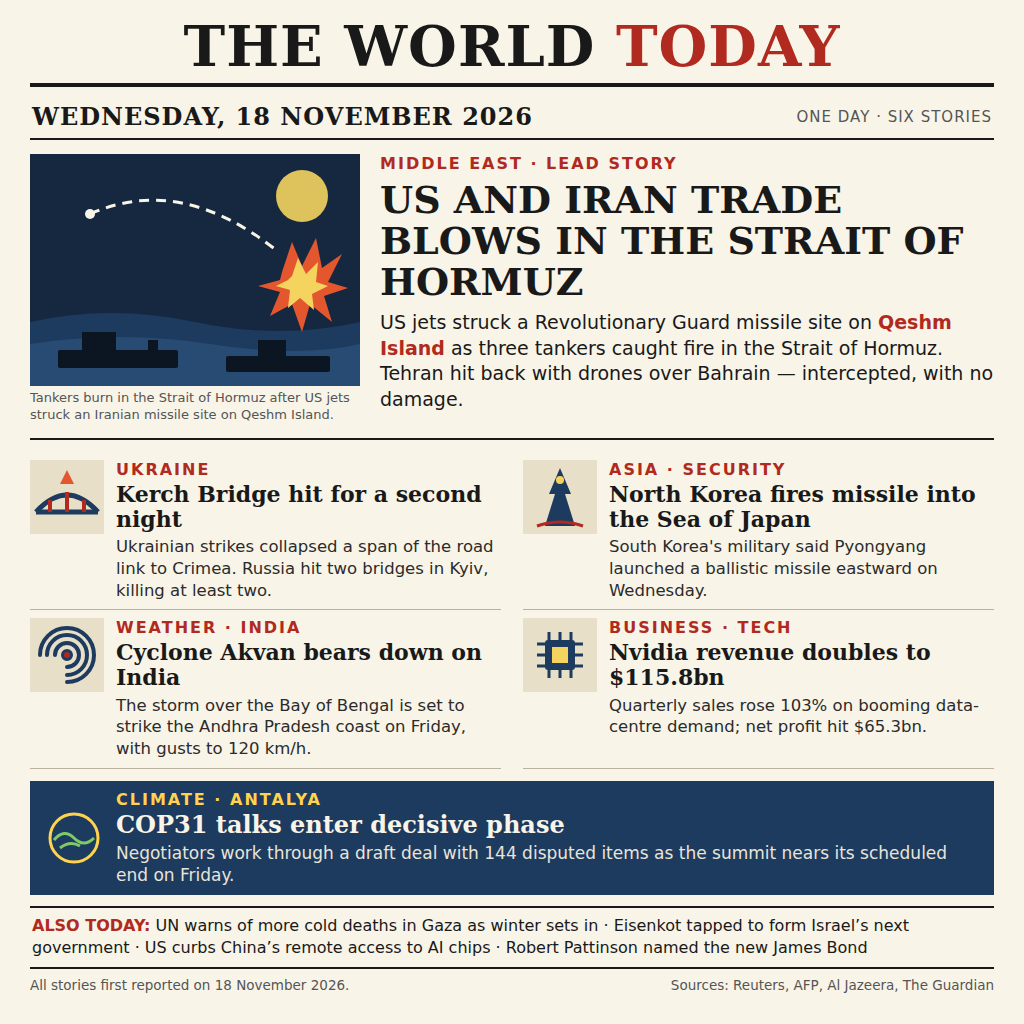
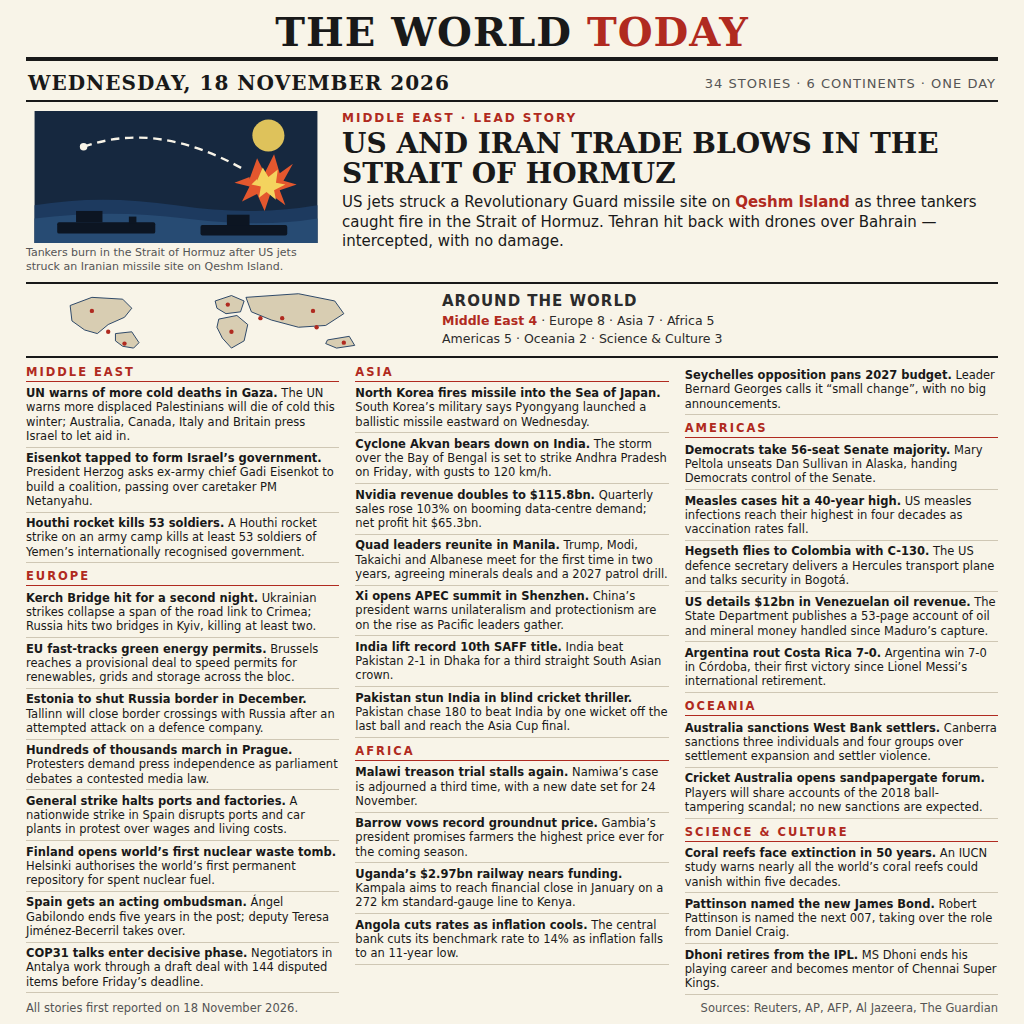
The World Today — 18 November 2026 (news-image-20261118 round 2)

diff --git a/image-source.html b/image-source.html
@@ -10,64 +10,67 @@
     font-family: "DejaVu Sans", "Noto Sans", sans-serif;
     background: #f8f4e8;
     color: #191919;
-    padding: 18px 30px 14px 30px;
+    padding: 12px 26px 8px 26px;
   }
   .serif { font-family: "DejaVu Serif", "Noto Serif", serif; }
 
   /* Masthead */
-  .masthead { text-align: center; border-bottom: 4px solid #191919; padding-bottom: 8px; }
-  .masthead h1 { font-size: 56px; line-height: 1.02; letter-spacing: 1px; font-weight: bold; }
+  .masthead { text-align: center; border-bottom: 4px solid #191919; padding-bottom: 5px; }
+  .masthead h1 { font-size: 40px; line-height: 1; letter-spacing: 1px; font-weight: bold; }
   .masthead h1 .red { color: #b02a20; }
   .dateline {
     display: flex; justify-content: space-between; align-items: center;
-    border-bottom: 2px solid #191919; padding: 7px 2px; margin-top: 8px;
+    border-bottom: 2px solid #191919; padding: 5px 2px; margin-top: 5px;
   }
-  .dateline .date { font-size: 24px; font-weight: bold; letter-spacing: 1px; white-space: nowrap; }
-  .dateline .tag { font-size: 15px; color: #555; letter-spacing: 1px; white-space: nowrap; }
+  .dateline .date { font-size: 20px; font-weight: bold; letter-spacing: 1px; white-space: nowrap; }
+  .dateline .tag { font-size: 13px; color: #555; letter-spacing: 1px; white-space: nowrap; }
 
   /* Lead story */
   .lead {
-    display: flex; gap: 20px; margin-top: 14px;
-    border-bottom: 2px solid #191919; padding-bottom: 14px;
+    display: flex; gap: 16px; margin-top: 9px;
+    border-bottom: 2px solid #191919; padding-bottom: 8px;
   }
-  .lead .art { flex: 0 0 330px; }
-  .lead .art svg { display: block; width: 330px; height: 232px; }
-  .lead .art .cap { font-size: 13px; color: #555; margin-top: 4px; line-height: 1.3; }
+  .lead .art { flex: 0 0 300px; }
+  .lead .art svg { display: block; width: 300px; height: 132px; }
+  .lead .art .cap { font-size: 11px; color: #555; margin-top: 3px; line-height: 1.25; }
   .kicker {
-    font-size: 16px; font-weight: bold; letter-spacing: 2px; color: #b02a20;
+    font-size: 12px; font-weight: bold; letter-spacing: 2px; color: #b02a20;
     text-transform: uppercase;
   }
-  .lead h2 { font-size: 38px; line-height: 1.08; margin: 6px 0 8px 0; font-weight: bold; }
-  .lead p { font-size: 19px; line-height: 1.35; }
+  .lead h2 { font-size: 28px; line-height: 1.06; margin: 4px 0 5px 0; font-weight: bold; }
+  .lead p { font-size: 15px; line-height: 1.3; }
   .lead p b { color: #b02a20; }
 
-  /* Story grid */
-  .grid { display: grid; grid-template-columns: 1fr 1fr; gap: 0 22px; margin-top: 12px; }
-  .card { display: flex; gap: 12px; padding: 8px 0; border-bottom: 1px solid #b9b2a0; }
-  .card .icon { flex: 0 0 74px; }
-  .card .icon svg { display: block; width: 74px; height: 74px; }
-  .card h3 { font-size: 22px; line-height: 1.12; font-weight: bold; margin: 3px 0 5px 0; }
-  .card p { font-size: 16.5px; line-height: 1.32; color: #2b2b2b; }
-
-  /* COP31 strip */
-  .climate {
-    display: flex; gap: 14px; align-items: center;
-    background: #1d3a5f; color: #f8f4e8; margin-top: 12px; padding: 9px 16px;
+  /* Map strip */
+  .mapstrip {
+    display: flex; gap: 16px; align-items: center;
+    margin-top: 7px; border-bottom: 2px solid #191919; padding-bottom: 7px;
   }
-  .climate svg { flex: 0 0 56px; width: 56px; height: 56px; display: block; }
-  .climate .kicker { color: #ffd34d; }
-  .climate h3 { font-size: 24px; line-height: 1.15; font-weight: bold; margin: 2px 0 3px 0; }
-  .climate p { font-size: 17px; line-height: 1.3; color: #e8e4d8; }
+  .mapstrip svg { flex: 0 0 400px; width: 400px; height: 58px; display: block; }
+  .mapstrip .counts { font-size: 12.5px; line-height: 1.45; color: #2b2b2b; }
+  .mapstrip .counts b { color: #b02a20; }
+  .mapstrip .counts .big { font-size: 15px; font-weight: bold; letter-spacing: 1px; }
 
-  /* Ticker + footer */
-  .ticker {
-    margin-top: 11px; font-size: 16px; line-height: 1.4;
-    border-top: 2px solid #191919; border-bottom: 2px solid #191919; padding: 7px 2px;
+  /* Story columns */
+  .cols { columns: 3; column-gap: 16px; margin-top: 7px; }
+  .sec {
+    font-size: 11.5px; font-weight: bold; letter-spacing: 2px; color: #b02a20;
+    text-transform: uppercase; border-bottom: 1px solid #b02a20;
+    padding-bottom: 2px; margin: 6px 0 1px 0;
+    break-after: avoid; break-inside: avoid;
   }
-  .ticker b { color: #b02a20; }
+  .sec:first-child { margin-top: 0; }
+  .it {
+    break-inside: avoid;
+    font-size: 11.5px; line-height: 1.24;
+    padding: 3.5px 0; border-bottom: 1px solid #cfc7b4;
+  }
+  .it b { color: #191919; }
+
+  /* Footer */
   .footer {
-    margin-top: 8px; display: flex; justify-content: space-between;
-    font-size: 13.5px; color: #555;
+    margin-top: 6px; display: flex; justify-content: space-between;
+    font-size: 11.5px; color: #555;
   }
 </style>
 </head>
@@ -78,35 +81,35 @@
 </div>
 <div class="dateline">
   <span class="date serif">WEDNESDAY, 18 NOVEMBER 2026</span>
-  <span class="tag">ONE DAY &middot; SIX STORIES</span>
+  <span class="tag">34 STORIES &middot; 6 CONTINENTS &middot; ONE DAY</span>
 </div>
 
 <div class="lead">
   <div class="art">
-    <svg viewBox="0 0 330 232" xmlns="http://www.w3.org/2000/svg">
-      <rect x="0" y="0" width="330" height="232" fill="#16283f"/>
-      <circle cx="272" cy="42" r="26" fill="#f4d35e" opacity="0.9"/>
-      <path d="M0 168 Q 80 150 165 168 T 330 168 L 330 248 L 0 248 Z" fill="#1d3a5f"/>
-      <path d="M0 190 Q 90 176 180 190 T 330 190 L 330 248 L 0 248 Z" fill="#274b73"/>
+    <svg viewBox="0 0 300 140" xmlns="http://www.w3.org/2000/svg">
+      <rect x="0" y="0" width="300" height="140" fill="#16283f"/>
+      <circle cx="248" cy="26" r="17" fill="#f4d35e" opacity="0.9"/>
+      <path d="M0 100 Q 70 88 150 100 T 300 100 L 300 140 L 0 140 Z" fill="#1d3a5f"/>
+      <path d="M0 114 Q 80 104 160 114 T 300 114 L 300 140 L 0 140 Z" fill="#274b73"/>
       <!-- tanker 1 -->
       <g fill="#0c1522">
-        <rect x="28" y="196" width="120" height="18" rx="2"/>
-        <rect x="52" y="178" width="34" height="18"/>
-        <rect x="118" y="186" width="10" height="10"/>
+        <rect x="24" y="118" width="104" height="12" rx="2"/>
+        <rect x="44" y="106" width="28" height="12"/>
+        <rect x="100" y="112" width="8" height="7"/>
       </g>
       <!-- tanker 2 -->
       <g fill="#0c1522">
-        <rect x="196" y="202" width="104" height="16" rx="2"/>
-        <rect x="228" y="186" width="28" height="16"/>
+        <rect x="176" y="121" width="92" height="11" rx="2"/>
+        <rect x="204" y="110" width="24" height="11"/>
       </g>
       <!-- explosion burst -->
       <g>
-        <path d="M252 118 L262 88 L272 112 L286 84 L292 114 L312 100 L298 128 L318 134 L294 142 L302 168 L280 150 L272 178 L262 150 L240 162 L250 138 L228 132 L250 126 Z" fill="#e4572e"/>
-        <path d="M262 122 L268 104 L276 120 L288 108 L286 128 L298 132 L282 140 L284 156 L270 144 L258 154 L260 136 L246 132 L258 126 Z" fill="#f4d35e"/>
+        <path d="M228 72 L236 50 L244 66 L254 46 L260 66 L274 56 L264 74 L278 78 L260 84 L266 100 L250 88 L244 106 L236 88 L220 96 L228 80 L212 76 L228 70 Z" fill="#e4572e"/>
+        <path d="M236 74 L242 60 L248 70 L258 62 L256 76 L266 78 L254 84 L256 94 L246 86 L238 92 L240 80 L230 78 L236 72 Z" fill="#f4d35e"/>
       </g>
       <!-- missile trail -->
-      <path d="M60 60 Q 150 20 246 96" stroke="#f8f4e8" stroke-width="3" fill="none" stroke-dasharray="10 7"/>
-      <circle cx="60" cy="60" r="5" fill="#f8f4e8"/>
+      <path d="M52 38 Q 130 10 222 62" stroke="#f8f4e8" stroke-width="2.5" fill="none" stroke-dasharray="9 6"/>
+      <circle cx="52" cy="38" r="4" fill="#f8f4e8"/>
     </svg>
     <div class="cap">Tankers burn in the Strait of Hormuz after US jets struck an Iranian missile site on Qeshm Island.</div>
   </div>
@@ -117,94 +120,91 @@
   </div>
 </div>
 
-<div class="grid">
-  <div class="card">
-    <div class="icon">
-      <svg viewBox="0 0 74 74" xmlns="http://www.w3.org/2000/svg">
-        <rect width="74" height="74" fill="#e8dfc8"/>
-        <path d="M6 52 Q 37 18 68 52" stroke="#1d3a5f" stroke-width="5" fill="none"/>
-        <path d="M6 52 L 68 52" stroke="#1d3a5f" stroke-width="5"/>
-        <path d="M20 40 L 20 52 M 37 32 L 37 52 M 54 40 L 54 52" stroke="#b02a20" stroke-width="4"/>
-        <path d="M30 24 L 44 24 L 37 10 Z" fill="#e4572e"/>
-      </svg>
-    </div>
-    <div>
-      <div class="kicker">Ukraine</div>
-      <h3 class="serif">Kerch Bridge hit for a second night</h3>
-      <p>Ukrainian strikes collapsed a span of the road link to Crimea. Russia hit two bridges in Kyiv, killing at least two.</p>
-    </div>
-  </div>
-  <div class="card">
-    <div class="icon">
-      <svg viewBox="0 0 74 74" xmlns="http://www.w3.org/2000/svg">
-        <rect width="74" height="74" fill="#e8dfc8"/>
-        <path d="M37 8 L 48 34 L 42 34 L 52 66 L 22 66 L 32 34 L 26 34 Z" fill="#1d3a5f"/>
-        <circle cx="37" cy="20" r="4" fill="#f4d35e"/>
-        <path d="M14 66 Q 37 58 60 66" stroke="#b02a20" stroke-width="3" fill="none"/>
-      </svg>
-    </div>
-    <div>
-      <div class="kicker">Asia &middot; Security</div>
-      <h3 class="serif">North Korea fires missile into the Sea of Japan</h3>
-      <p>South Korea's military said Pyongyang launched a ballistic missile eastward on Wednesday.</p>
-    </div>
-  </div>
-  <div class="card">
-    <div class="icon">
-      <svg viewBox="0 0 74 74" xmlns="http://www.w3.org/2000/svg">
-        <rect width="74" height="74" fill="#e8dfc8"/>
-        <g fill="none" stroke="#1d3a5f" stroke-width="4" stroke-linecap="round">
-          <path d="M37 37 m-4 0 a4 4 0 1 1 8 0 a4 4 0 1 1 -8 0"/>
-          <path d="M37 37 m-12 0 a12 12 0 1 1 12 12"/>
-          <path d="M37 37 m-20 0 a20 20 0 1 1 20 20"/>
-          <path d="M37 37 m-27 0 a27 27 0 1 1 27 27"/>
-        </g>
-        <circle cx="37" cy="37" r="3" fill="#b02a20"/>
-      </svg>
-    </div>
-    <div>
-      <div class="kicker">Weather &middot; India</div>
-      <h3 class="serif">Cyclone Akvan bears down on India</h3>
-      <p>The storm over the Bay of Bengal is set to strike the Andhra Pradesh coast on Friday, with gusts to 120 km/h.</p>
-    </div>
-  </div>
-  <div class="card">
-    <div class="icon">
-      <svg viewBox="0 0 74 74" xmlns="http://www.w3.org/2000/svg">
-        <rect width="74" height="74" fill="#e8dfc8"/>
-        <rect x="22" y="22" width="30" height="30" rx="3" fill="#1d3a5f"/>
-        <rect x="29" y="29" width="16" height="16" fill="#f4d35e"/>
-        <path d="M26 22 V 14 M 37 22 V 14 M 48 22 V 14 M 26 60 V 52 M 37 60 V 52 M 48 60 V 52 M 22 26 H 14 M 22 37 H 14 M 22 48 H 14 M 60 26 H 52 M 60 37 H 52 M 60 48 H 52" stroke="#1d3a5f" stroke-width="3"/>
-      </svg>
-    </div>
-    <div>
-      <div class="kicker">Business &middot; Tech</div>
-      <h3 class="serif">Nvidia revenue doubles to $115.8bn</h3>
-      <p>Quarterly sales rose 103% on booming data-centre demand; net profit hit $65.3bn.</p>
-    </div>
-  </div>
-</div>
-
-<div class="climate">
-  <svg viewBox="0 0 56 56" xmlns="http://www.w3.org/2000/svg">
-    <circle cx="28" cy="28" r="24" fill="none" stroke="#ffd34d" stroke-width="3"/>
-    <path d="M8 30 Q 18 18 28 28 T 48 28" fill="none" stroke="#7fc96b" stroke-width="3"/>
-    <path d="M14 38 Q 24 30 34 36" fill="none" stroke="#7fc96b" stroke-width="3"/>
+<div class="mapstrip">
+  <svg viewBox="0 0 400 64" xmlns="http://www.w3.org/2000/svg">
+    <!-- simplified world map, continents in navy, story hotspots in red -->
+    <g fill="#d8cdb2" stroke="#1d3a5f" stroke-width="1">
+      <path d="M28 16 L52 7 L86 9 L96 19 L88 29 L70 37 L58 47 L44 43 L30 33 Z"/>
+      <path d="M78 47 L96 45 L104 57 L98 63 L86 61 L78 55 Z"/>
+      <path d="M188 11 L206 5 L220 11 L216 23 L200 25 L190 19 Z"/>
+      <path d="M192 31 L212 27 L224 37 L220 55 L206 63 L196 52 L190 40 Z"/>
+      <path d="M222 7 L280 3 L320 11 L330 25 L310 38 L280 40 L250 32 L228 23 Z"/>
+      <path d="M312 54 L336 50 L342 60 L322 63 L310 58 Z"/>
+    </g>
+    <g fill="#b02a20">
+      <circle cx="52" cy="22" r="2.4"/>
+      <circle cx="88" cy="58" r="2.4"/>
+      <circle cx="202" cy="15" r="2.4"/>
+      <circle cx="206" cy="45" r="2.4"/>
+      <circle cx="238" cy="30" r="2.4"/>
+      <circle cx="262" cy="30" r="2.4"/>
+      <circle cx="296" cy="22" r="2.4"/>
+      <circle cx="300" cy="40" r="2.4"/>
+      <circle cx="330" cy="57" r="2.4"/>
+      <circle cx="70" cy="45" r="2.4"/>
+    </g>
   </svg>
-  <div>
-    <div class="kicker">Climate &middot; Antalya</div>
-    <h3 class="serif">COP31 talks enter decisive phase</h3>
-    <p>Negotiators work through a draft deal with 144 disputed items as the summit nears its scheduled end on Friday.</p>
+  <div class="counts">
+    <span class="big">AROUND THE WORLD</span><br>
+    <b>Middle East 4</b> &middot; Europe 8 &middot; Asia 7 &middot; Africa 5<br>
+    Americas 5 &middot; Oceania 2 &middot; Science &amp; Culture 3
   </div>
 </div>
 
-<div class="ticker">
-  <b>ALSO TODAY:</b> UN warns of more cold deaths in Gaza as winter sets in &middot; Eisenkot tapped to form Israel&rsquo;s next government &middot; US curbs China&rsquo;s remote access to AI chips &middot; Robert Pattinson named the new James Bond
+<div class="cols">
+
+  <div class="sec">Middle East</div>
+  <div class="it"><b>UN warns of more cold deaths in Gaza.</b> The UN warns more displaced Palestinians will die of cold this winter; Australia, Canada, Italy and Britain press Israel to let aid in.</div>
+  <div class="it"><b>Eisenkot tapped to form Israel&rsquo;s government.</b> President Herzog asks ex-army chief Gadi Eisenkot to build a coalition, passing over caretaker PM Netanyahu.</div>
+  <div class="it"><b>Houthi rocket kills 53 soldiers.</b> A Houthi rocket strike on an army camp kills at least 53 soldiers of Yemen&rsquo;s internationally recognised government.</div>
+
+  <div class="sec">Europe</div>
+  <div class="it"><b>Kerch Bridge hit for a second night.</b> Ukrainian strikes collapse a span of the road link to Crimea; Russia hits two bridges in Kyiv, killing at least two.</div>
+  <div class="it"><b>EU fast-tracks green energy permits.</b> Brussels reaches a provisional deal to speed permits for renewables, grids and storage across the bloc.</div>
+  <div class="it"><b>Estonia to shut Russia border in December.</b> Tallinn will close border crossings with Russia after an attempted attack on a defence company.</div>
+  <div class="it"><b>Hundreds of thousands march in Prague.</b> Protesters demand press independence as parliament debates a contested media law.</div>
+  <div class="it"><b>General strike halts ports and factories.</b> A nationwide strike in Spain disrupts ports and car plants in protest over wages and living costs.</div>
+  <div class="it"><b>Finland opens world&rsquo;s first nuclear waste tomb.</b> Helsinki authorises the world&rsquo;s first permanent repository for spent nuclear fuel.</div>
+  <div class="it"><b>Spain gets an acting ombudsman.</b> &Aacute;ngel Gabilondo ends five years in the post; deputy Teresa Jim&eacute;nez-Becerril takes over.</div>
+  <div class="it"><b>COP31 talks enter decisive phase.</b> Negotiators in Antalya work through a draft deal with 144 disputed items before Friday&rsquo;s deadline.</div>
+
+  <div class="sec">Asia</div>
+  <div class="it"><b>North Korea fires missile into the Sea of Japan.</b> South Korea&rsquo;s military says Pyongyang launched a ballistic missile eastward on Wednesday.</div>
+  <div class="it"><b>Cyclone Akvan bears down on India.</b> The storm over the Bay of Bengal is set to strike Andhra Pradesh on Friday, with gusts to 120 km/h.</div>
+  <div class="it"><b>Nvidia revenue doubles to $115.8bn.</b> Quarterly sales rose 103% on booming data-centre demand; net profit hit $65.3bn.</div>
+  <div class="it"><b>Quad leaders reunite in Manila.</b> Trump, Modi, Takaichi and Albanese meet for the first time in two years, agreeing minerals deals and a 2027 patrol drill.</div>
+  <div class="it"><b>Xi opens APEC summit in Shenzhen.</b> China&rsquo;s president warns unilateralism and protectionism are on the rise as Pacific leaders gather.</div>
+  <div class="it"><b>India lift record 10th SAFF title.</b> India beat Pakistan 2-1 in Dhaka for a third straight South Asian crown.</div>
+  <div class="it"><b>Pakistan stun India in blind cricket thriller.</b> Pakistan chase 180 to beat India by one wicket off the last ball and reach the Asia Cup final.</div>
+
+  <div class="sec">Africa</div>
+  <div class="it"><b>Malawi treason trial stalls again.</b> Namiwa&rsquo;s case is adjourned a third time, with a new date set for 24 November.</div>
+  <div class="it"><b>Barrow vows record groundnut price.</b> Gambia&rsquo;s president promises farmers the highest price ever for the coming season.</div>
+  <div class="it"><b>Uganda&rsquo;s $2.97bn railway nears funding.</b> Kampala aims to reach financial close in January on a 272 km standard-gauge line to Kenya.</div>
+  <div class="it"><b>Angola cuts rates as inflation cools.</b> The central bank cuts its benchmark rate to 14% as inflation falls to an 11-year low.</div>
+  <div class="it"><b>Seychelles opposition pans 2027 budget.</b> Leader Bernard Georges calls it &ldquo;small change&rdquo;, with no big announcements.</div>
+
+  <div class="sec">Americas</div>
+  <div class="it"><b>Democrats take 56-seat Senate majority.</b> Mary Peltola unseats Dan Sullivan in Alaska, handing Democrats control of the Senate.</div>
+  <div class="it"><b>Measles cases hit a 40-year high.</b> US measles infections reach their highest in four decades as vaccination rates fall.</div>
+  <div class="it"><b>Hegseth flies to Colombia with C-130.</b> The US defence secretary delivers a Hercules transport plane and talks security in Bogot&aacute;.</div>
+  <div class="it"><b>US details $12bn in Venezuelan oil revenue.</b> The State Department publishes a 53-page account of oil and mineral money handled since Maduro&rsquo;s capture.</div>
+  <div class="it"><b>Argentina rout Costa Rica 7-0.</b> Argentina win 7-0 in C&oacute;rdoba, their first victory since Lionel Messi&rsquo;s international retirement.</div>
+
+  <div class="sec">Oceania</div>
+  <div class="it"><b>Australia sanctions West Bank settlers.</b> Canberra sanctions three individuals and four groups over settlement expansion and settler violence.</div>
+  <div class="it"><b>Cricket Australia opens sandpapergate forum.</b> Players will share accounts of the 2018 ball-tampering scandal; no new sanctions are expected.</div>
+
+  <div class="sec">Science &amp; Culture</div>
+  <div class="it"><b>Coral reefs face extinction in 50 years.</b> An IUCN study warns nearly all the world&rsquo;s coral reefs could vanish within five decades.</div>
+  <div class="it"><b>Pattinson named the new James Bond.</b> Robert Pattinson is named the next 007, taking over the role from Daniel Craig.</div>
+  <div class="it"><b>Dhoni retires from the IPL.</b> MS Dhoni ends his playing career and becomes mentor of Chennai Super Kings.</div>
+
 </div>
 
 <div class="footer">
   <span>All stories first reported on 18 November 2026.</span>
-  <span>Sources: Reuters, AFP, Al Jazeera, The Guardian</span>
+  <span>Sources: Reuters, AP, AFP, Al Jazeera, The Guardian</span>
 </div>
 
 </body>
